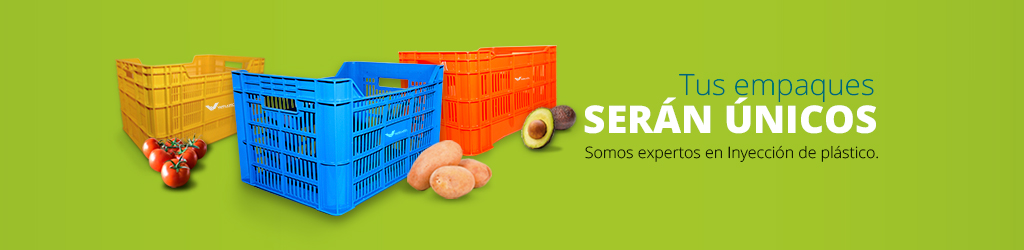
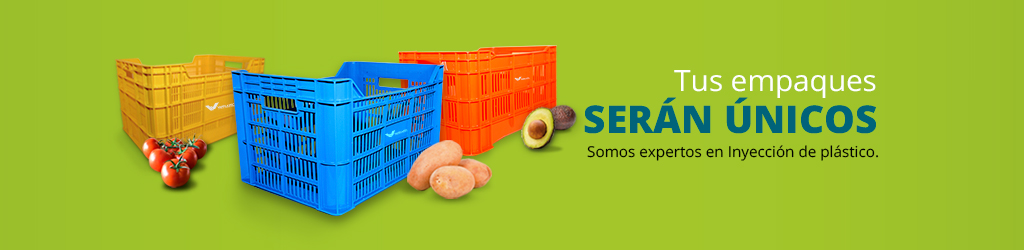
Actualización de copy 170918
Inicio
Nosotros
Lineas
Pedido
Contacto
Preguntas Frecuentes

Changed region(s): [[0.5625, 0.28, 0.875, 0.532], [0.5625, 0.588, 0.875, 0.644]]

diff --git a/nosotros.html b/nosotros.html
@@ -68,24 +68,24 @@
                  <li data-target="#carousel-example-generic" data-slide-to="2"></li>
                 </ol>
 
-            <!-- Wrapper for slides -->
+            <!-- Wrapper for slides -->  
                 <div class="carousel-inner" role="listbox">
                 <div class="item active">
-                    <img src="img/banner2nosotros.jpg" alt="...">
+                    <img src="img/banner1nosotros.jpg" alt="...">
                     <div class="carousel-caption">
-                    <a href="vermas">Ver más</a>
+                    <!--a href="vermas">Ver más</a-->
                     </div>
                 </div>   
                 <div class="item">
-                <img src="img/banner1nosotros.jpg" alt="...">
+                <img src="img/banner2nosotros.jpg" alt="...">
                 <div class="carousel-caption">
-                 <a href="vermas">Ver más</a>
+                 <!--a href="vermas">Ver más</a-->
                 </div>
                 </div>
                  <div class="item">
                 <img src="img/banner3nosotros.jpg" alt="...">
                 <div class="carousel-caption">
-                 <a href="vermas">Ver más</a>
+                 <!--a href="vermas">Ver más</a-->
                 </div>
                 </div>    
                 </div>
@@ -112,18 +112,14 @@
             </section>
            
             <section class="col-xs-12 col-sm-12 col-md-4 col-lg-4 ">
-            <article class=txthistoria><h1>HISTORIA</h1><p>
-Lorem ipsum dolor sit amet, consectetur adipiscing elit, sed do eiusmod tempor incididunt ut labore et dolore magna aliqua.
-                Lorem ipsum dolor sit amet, consectetur adipiscing elit, sed do eiusmod tempor incididunt ut labore et dolore magna aliqua. </p>
-                <p>
-Lorem ipsum dolor sit amet, consectetur adipiscing elit, sed do eiusmod tempor incididunt ut labore et dolore magna aliqua.
-                Lorem ipsum dolor sit amet, consectetur adipiscing elit, sed do eiusmod tempor incididunt ut labore et dolore magna aliqua. </p></article>
+            <article class=txthistoria><h1>NUESTRA<br>HISTORIA</h1><p>La sinergia realizada por dos empresarios expertos en sectores totalmente diferentes durante 10 años, como son la elaboración de plásticos y el desarrollo de tecnologías de la información les han permitido conceptualizar las principales necesidades del sector manufacturero de productos de plástico y buscar nuevas herramientas tecnológicas que permitan cumplir las expectativas de nuestros clientes. </p>
+                <!--p>En la fabricación de nuestros contenedores utilizamos polietileno de alta densidad, brindando alta resistencia y garantizando que los productos transportados llegarán a su destino en las mismas condiciones de calidad que tenían en el momento de su recolección o fabricación; generando un compromiso fundamental con el sector agrícola y la industria alimentaria para proporcionar contenedores de alta calidad que ayuden y faciliten el traslado de la manufactura. </p--></article>
                  <section class="clearfix"></section> 
             </section>
            
            <section class="row">
             <section class="col-xs-12 col-sm-12 col-md-12 col-lg-12">
-            <h2 class="fraseuno"><em>"Dolor sit Amet, lorem ipsum sit amet consectetur adipiscing elit sed"</em></h2>
+                <h2 class="fraseuno"><em>“Más que contenedores, hacemos soluciones”</em></h2>
             </section>
             <section class="clearfix"></section>
         </section>
@@ -140,7 +136,7 @@ Lorem ipsum dolor sit amet, consectetur adipiscing elit, sed do eiusmod tempor i
                   <figure class="imgmision"><img class="img-fluid" src="img/mision@1x.jpg" alt="Responsive image"></figure>
             </section>
              <section class="col-xs-12 col-sm-12 col-md-2 col-lg-2">
-                 <article class="txtmision"><h3>MISIÓN</h3><p>Fabricar productos plásticos con excelente calidad, ser líder en ventas.</p></article>
+                 <article class="txtmision"><h3>MISIÓN</h3><p>Fabricación y distribución de productos plásticos para el sector agrícola e industrial.</p></article>
             </section>
 
              <section class="col-xs-12 col-sm-12 col-md-2 col-lg-2">
@@ -154,7 +150,7 @@ Lorem ipsum dolor sit amet, consectetur adipiscing elit, sed do eiusmod tempor i
                   <figure class="imgvalores"><img class="img-fluid" src="img/valores@1x.jpg" alt="Responsive image"></figure>
             </section>
              <section class="col-xs-12 col-sm-12 col-md-2 col-lg-2">
-                 <article class="txtvalores"><h3>VALORES</h3><p>Responsabilidad<br>Disciplina<br>Honestidad<br>Pasión</p></article>
+                 <article class="txtvalores"><h3>VALORES</h3><p>Compromiso<br>Respeto<br>Comunicación<br>Confianza<br>Seguridad<br>Superación</p></article>
             </section>
             <section class="clearfix"></section>
           </section>
@@ -166,8 +162,8 @@ Lorem ipsum dolor sit amet, consectetur adipiscing elit, sed do eiusmod tempor i
                   <figure class="imgporque"><img class="img-responsive" src="img/porque@1x.png" alt="Responsive image"></figure>
             </section>
               <section class="col-xs-12 col-sm-12 col-md-6 col-lg-6">
-                 <article class="txtporque"><h1>¿POR QUÉ NOSOTROS?</h1><p>Lorem ipsum dolor sit amet, consectetur adipiscing elit, sed do eiusmod tempor incididunt ut labore et dolore magna aliqua. Ut enim ad minim veniam, quis nostrud exercitation ullamco laboris nisi ut aliquip ex ea commodo consequat. Duis aute irure dolor in reprehenderit in voluptate velit esse cillum dolore eu fugiat nulla pariatur. Excepteur sint occaecat cupidatat non proident, sunt in culpa qui officia deserunt mollit anim id est laborum.</p></article>
-                 <article class="frasepie"><strong>"Lorem ipsum dolor sit amet, consectetur adipiscing elit, sed do eiusmod tempor incididunt ut labore et dolore magna aliqua."<br>LOREM IPSUM</strong></article>
+                 <article class="txtporque"><h1>¿POR QUÉ NOSOTROS?</h1><p>Nuestro compromiso es lograr la satisfacción total de nuestros clientes, garantizando la calidad de nuestros contenedores, cumpliendo con los tiempos de entrega de los pedidos, asegurando la rentabilidad y sustentabilidad de su negocio.</p></article>
+                 <h3 class="frasepie"><strong>“Calidad, servicio al cliente, precio; eso es Vanplastic”.<!--br>LOREM IPSUM--></strong></h3>
             </section>
             <section class="clearfix"></section>
           </section>

diff --git a/preguntas.html b/preguntas.html
@@ -104,16 +104,49 @@ comunicate con nosotros para la devolución o cambio de tu producto.</strong><br
                             <section class="clearfix"></section>
                     </section> 
                          
-                     <section class="row">
-                            <section class="col-xs-12 col-sm-12 col-md-5 col-lg-5">
+                    <section class="row">
+                    <!-- <section class="col-xs-12 col-sm-12 col-md-4 col-lg-3 col-xl-3">
                                 <img src="img/contactanos@1x.png" alt="Contáctanos" class="imgcontactanos"> 
                              </section>
                             <section class="clearfix"></section>
-                      </section>  
-                    <section class="row">   
-                            <section class="col-xs-12 col-sm-12 col-md-12 col-lg-12">
-                                     <article class="txtcontactanos"><h2><strong>CONTÁCTANOS (55) 1660 3946</strong></h2>
-                                        <h4>¡Para dudas o comentarios, ponte en contacto con nosotros!<br></h4>    
+                      </section>-->
+                         
+                            <section class="col-xs-12 col-sm-12 col-md-7 col-lg-7 col-xl-7">
+                                     <article class="txtcontactanos">
+                                        <h1>Preguntas más Frecuentes</h1>
+                                            <h3>¿Cuáles son los “Días Hábiles”?</h3>
+                                            <p>De lunes a viernes, excepto días feriados.</p> 
+                                         
+                                              <h3>¿Cuentan con producciones urgentes?</h3>
+                                            <p>Sí, podemos entregar tu producto en 24 horas. El precio difiere al costo de una entrega estándar.</p>
+                                         
+                                             <h3>¿Cuentan con productos en stock?</h3>
+                                            <p>No, no contamos con productos en stock. El proceso de producción puede durar de 2 a 5 días hábiles para tener listo tu pedido.</p>
+                                         
+                                            <h3>¿Cuánto tiempo pueden almacenar mi producción en la bodega de Vanplastic?</h3>
+                                            <p>A partir de la confirmación de entrega en nuestras instalaciones, contarás con 2 días hábiles para recogerlo.</p>
+                                         
+                                            <h3>¿Cuáles son los métodos de pagos que aceptan?</h3>
+                                            <p>Depósito bancario y pago contra entrega.</p>
+                                         
+                                            <h3>¿Cómo puedo acreditar que mi pago ha sido recibido?</h3>
+                                            <p>Si realizaste el pago a través de PayPal, tarjeta de crédito, débito tu Institución Bancaria te notificará de inmediato. En caso de haber realizado depósito bancario envíanos un correo a pagos@vanplastic con la foto adjunta del boucher. En cualquier forma de pago nosotros te notificaremos la recepción de pago.</p>
+                                         
+                                             <h3>¿Qué debo de hacer si no he recibido correo de notificación de recepción?</h3>
+                                            <p>Posiblemente el correo se encuentre en tu carpeta de correos no deseados (Spam) o puedes comunicarte con nosotros al (55) 1660 3946 en donde un asesor dará seguimiento a tu petición.</p>
+                                         
+                                             <h3>¿Cuentan con envío a domicilio?</h3>
+                                            <p>La producción es entregada en nuestras instalaciones; sin embargo, contamos con el servicio de transporte con un costo adicional.</p>
+                                            
+                                             <h3>¿Los productos Vanplastic cuentan con garantía?</h3>
+                                            <p>Sí, todos nuestros productos cuentan con una garantía de 10 días naturales a partir de que son entregados.</p>
+                                         
+                                            <h3>¿Cómo puedo hacer válida mi garantía Vanplastic?</h3>
+                                            <p>En caso de que alguno de los productos adquiridos se encuentre defectuoso, envíanos un correo electrónico a contacto@vanplastic.com, un asesor se comunicará contigo para agendar una reunión en la que se revisará el producto para poder evaluar y determinar el origen del defecto en el producto. Deberás esperar un (1) día hábil para saber si la garantía será válida. La reposición del producto tomará aproximadamente 10 días hábiles.</p>
+                                         
+                                         <h2><strong>CONTÁCTANOS (55) 1660 3946</strong></h2>
+                                        <h4>¡Para dudas o comentarios, ponte en contacto con nosotros!<br></h4>
+                                         <h3><em>Más que empaques, hacemos soluciones</em></h3>
                                     </article>
                                 <section class="clearfix"></section>
                             </section>

diff --git a/pedidos.html b/pedidos.html
@@ -74,18 +74,22 @@
                 <form>
                 <div class="form-group">
                   <label class="form-control-label" for="formGroupNombreInput">Nombre</label>
-                  <input type="text" class="form-control" id="formGroupNombreInput" placeholder="Nombre Completo">
+                  <input type="text" class="form-control" id="formGroupNombreInput" placeholder="Escribe tu nombre">
                 </div>
+                 <div class="form-group">
+                  <label class="form-control-label" for="formGroupNombreInput">Empresa</label>
+                  <input type="text" class="form-control" id="formGroupNombreInput" placeholder="¿Para qué empresa trabajas?">
+                </div>    
                 <div class="form-group">
                   <label class="form-control-label" for="formGroupTelefonoInput2">Teléfono</label>
-                  <input type="text" class="form-control" id="formGroupTelefonoInput2" placeholder="(00) 0000 00 00">
+                  <input type="text" class="form-control" id="formGroupTelefonoInput2" placeholder="¿A qué número te podemos llamar?">
                 </div>
                     <div class="form-group">
                       <label for="exampleFormControlInput1">Correo Electrónico</label>
-                      <input type="email" class="form-control" id="exampleFormControlInput3" placeholder="nombre@correo.com">
+                      <input type="email" class="form-control" id="exampleFormControlInput3" placeholder="Contacto de correo">
                     </div>
                     <section class="col-xs-12 col-sm-12 col-md-4 col-lg-4 formpad">
-                    <div class="form-group">                         
+                    <div class="form-group">  
                             <label for="exampleFormControlSelect1">Producto</label>
                             <select class="form-control" id="exampleFormControlSelect1">
                               <option>Caja María Calada</option>

diff --git a/catalogo.html b/catalogo.html
@@ -70,7 +70,7 @@
             </section>
            
             <section class="col-xs-12 col-sm-12 col-md-5 col-lg-5 marbo">
-            <article class=txtpedidos><h1>CATÁLOGO</h1><h3>¡Conoce nuestro catálogo de productos que tenemos para ti!</h3></article><br>
+            <article class=txtpedidos><h1>CATÁLOGO</h1><h3>¡Conoce nuestro catálogo de productos, en donde podrás encontrar información detallada!</h3></article><br>
             <form><button type="submit" class="btn btn-primary">Descargar Catálogo</button>
             </form>
                   <section class="clearfix"></section> 

diff --git a/css/main.css b/css/main.css
@@ -1049,16 +1049,18 @@ h1, .h1 {
      /*Contactanos*/
     .imgcontactanos{
         padding:0px;
-        margin: 20px 10px 15px 10px; 
-        text-align:center;
+        margin: 20px 10px 15px 70px; 
+       text-align:center;
         float:left; 
     }
 
     .txtcontactanos{
-        margin:5px 10px 10px 350px;
-        padding:0px;
-        text-align: center;
+        margin-top: 10px;
+        margin-left:50px;
+        padding:10px;
+        /*text-align: left;*/
         float:left;
+        /*background:#f0f0f0;*/
     }
 
 /*Footer*/

diff --git a/contacto.html b/contacto.html
@@ -71,7 +71,8 @@
         
         <article class="col-xs-12 col-sm-12 col-md-12 col-lg-12 col-xl-12 ubic">
             <h1>Nuestra Ubicación</h1>
-            <p>Lorem ipsum dolor sit amet, consectetuer adipiscing elit. Aenean commodo ligula eget dolor.</p>
+            <p>Av. Camino Nacional No. 74 (Acc Eje Norte Sur), Nuevo Parque, Industrial, Nuevo San Juan, 76807 San Juan del Rio, Qro.</p>
+            <h2><em>"Soluciones innovadoras para todo tipo de productos"</em></h2>
         </article>
          </section>
      </section>     
